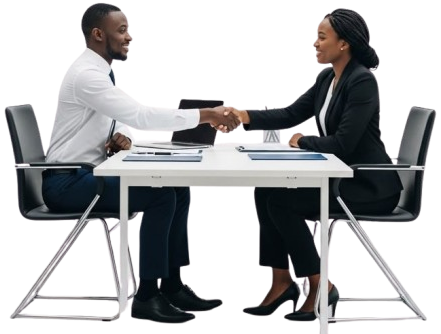
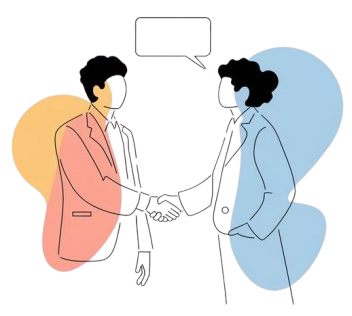
added visitor visits page

diff --git a/src/components/Visitor/VisitorVisits.jsx b/src/components/Visitor/VisitorVisits.jsx
@@ -1,0 +1,155 @@
+import React from "react";
+import meetingImg from "../../assets/meeting.webp";
+
+const VisitorVisits = () => {
+  return (
+    <div className="max-w-[90rem] mx-auto  flex flex-col gap-6">
+      <div>
+        <h3 className="text-6xl font-extrabold">My Visits</h3>
+        <p className="font-medium text-2xl text-[#000000bb]">
+          Manage your scheduled appointments, access digital security passes.
+        </p>
+      </div>
+
+      <div className="border flex justify-between">
+        <div>
+          <h4 className="text-3xl font-bold">Upcoming Visits</h4>
+          <div className="flex gap-6">
+            <div className="">
+              <div className="border  px-10 py-6 max-w-130 my-6">
+                <div className="flex items-center justify-between">
+                  <h4 className="text-3xl">Dr. Elias Vance</h4>{" "}
+                  <span className=" bg-black px-4 py-1 text-sm text-white">
+                    Confirmed
+                  </span>
+                </div>
+                <p className="text-xl">Principal Investigator, Sector 7 lab</p>
+
+                <div className="flex justify-between my-4">
+                  <div className="flex items-center  w-fit gap-4 ">
+                    <span className=" material-symbols-outlined">
+                      date_range
+                    </span>
+                    <div>
+                      <span>Date</span>
+                      <p>Oct 24, 2026</p>
+                    </div>
+                  </div>
+                  <div className="flex items-center  w-fit gap-4">
+                    <span class="material-symbols-outlined">schedule</span>
+                    <div>
+                      <span>Time</span>
+                      <p>09:00 AM IST</p>
+                    </div>
+                  </div>
+                </div>
+
+                <div className=" my-4 flex gap-4">
+                  <button className="flex justify-center gap-2 py-2 flex-1 items-center border ">
+                    <span class="material-symbols-outlined">qr_code_2</span>View
+                    QR Pass
+                  </button>
+                  <button className="flex flex-1 gap-2 justify-center items-center border ">
+                    <span class="material-symbols-outlined">share</span>
+                    Share
+                  </button>
+                </div>
+              </div>
+            </div>
+            <div className="">
+              <div className="border  px-10 py-6 max-w-130 my-6">
+                <div className="flex items-center justify-between">
+                  <h4 className="text-3xl">Dr. Elias Vance</h4>{" "}
+                  <span className=" bg-black px-4 py-1 text-sm text-white">
+                    Confirmed
+                  </span>
+                </div>
+                <p className="text-xl">Principal Investigator, Sector 7 lab</p>
+
+                <div className="flex justify-between my-4">
+                  <div className="flex items-center  w-fit gap-4 ">
+                    <span className=" material-symbols-outlined">
+                      date_range
+                    </span>
+                    <div>
+                      <span>Date</span>
+                      <p>Oct 24, 2026</p>
+                    </div>
+                  </div>
+                  <div className="flex items-center  w-fit gap-4">
+                    <span class="material-symbols-outlined">schedule</span>
+                    <div>
+                      <span>Time</span>
+                      <p>09:00 AM IST</p>
+                    </div>
+                  </div>
+                </div>
+
+                <div className=" my-4 flex gap-4">
+                  <button className="flex justify-center gap-2 py-2 flex-1 items-center border ">
+                    <span class="material-symbols-outlined">qr_code_2</span>View
+                    QR Pass
+                  </button>
+                  <button className="flex flex-1 gap-2 justify-center items-center border ">
+                    <span class="material-symbols-outlined">share</span>
+                    Share
+                  </button>
+                </div>
+              </div>
+            </div>
+          </div>
+        </div>
+        <div className="mr-25">
+          <img
+            src={meetingImg}
+            alt=""
+            className="grayscale h-full w-full object-fit"
+          />
+        </div>
+      </div>
+
+      <div className="flex  flex-col">
+        <h5 className="text-3xl font-bold">Visit History</h5>
+        <div className=" flex flex-col">
+          <table className="w-full  border-zinc-800 text-left">
+            <thead>
+              <tr className="border-b border-zinc-800">
+                <th className="p-4">Date</th>
+                <th className="p-4">Host</th>
+                <th className="p-4">Company</th>
+                <th className="p-4">Status</th>
+                <th className="p-4">Actions</th>
+              </tr>
+            </thead>
+
+            <tbody>
+              <tr className="border-b border-zinc-800">
+                <td className="p-4">29/01/2026</td>
+                <td className="p-4">Billy Butcher</td>
+                <td className="p-4">Vistar - London</td>
+
+                <td className="p-4">
+                  <span className="rounded-full bg-black px-3 py-1 text-xs text-white">
+                    Confirmed
+                  </span>
+                </td>
+
+                <td className="p-4">
+                  <button className="cursor-pointer">
+                    <span class="material-symbols-outlined">more_vert</span>
+                  </button>
+                </td>
+              </tr>
+            </tbody>
+          </table>
+
+          <button className="bg-black my-6 text-white px-6 py-2 self-center">
+            Load More History
+          </button>
+        </div>
+      </div>
+    </div>
+  );
+};
+
+export default VisitorVisits;

diff --git a/src/App.jsx b/src/App.jsx
@@ -14,6 +14,7 @@ import SecurityLogin from './components/Security/SecurityLogin'
 import VisitorDashBoard from './components/Visitor/VisitorDashBoard'
 import VisitorPass from './components/Visitor/VisitorPass'
 import VisitorSettings from './components/Visitor/VisitorSettings'
+import VisitorVisits from './components/Visitor/VisitorVisits'
 
 const App = () => {
   return (
@@ -39,7 +40,9 @@ const App = () => {
 
    {/* <VisitorPass/ */}
 
-   <VisitorSettings/>
+   {/* <VisitorSettings/> */}
+
+   <VisitorVisits/>
   
       
 